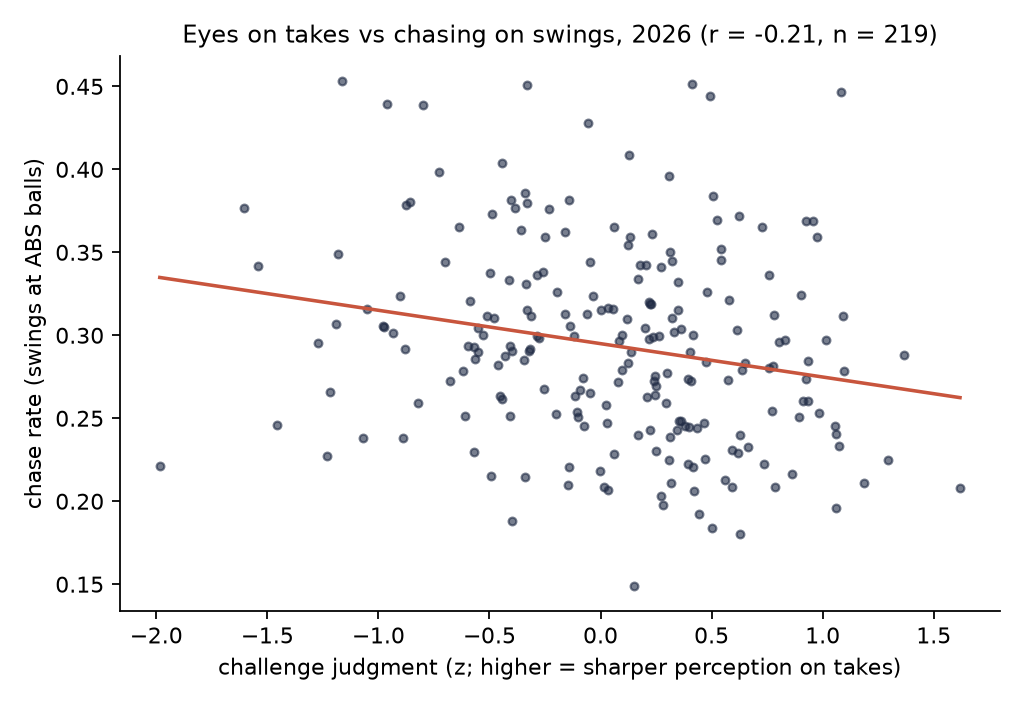
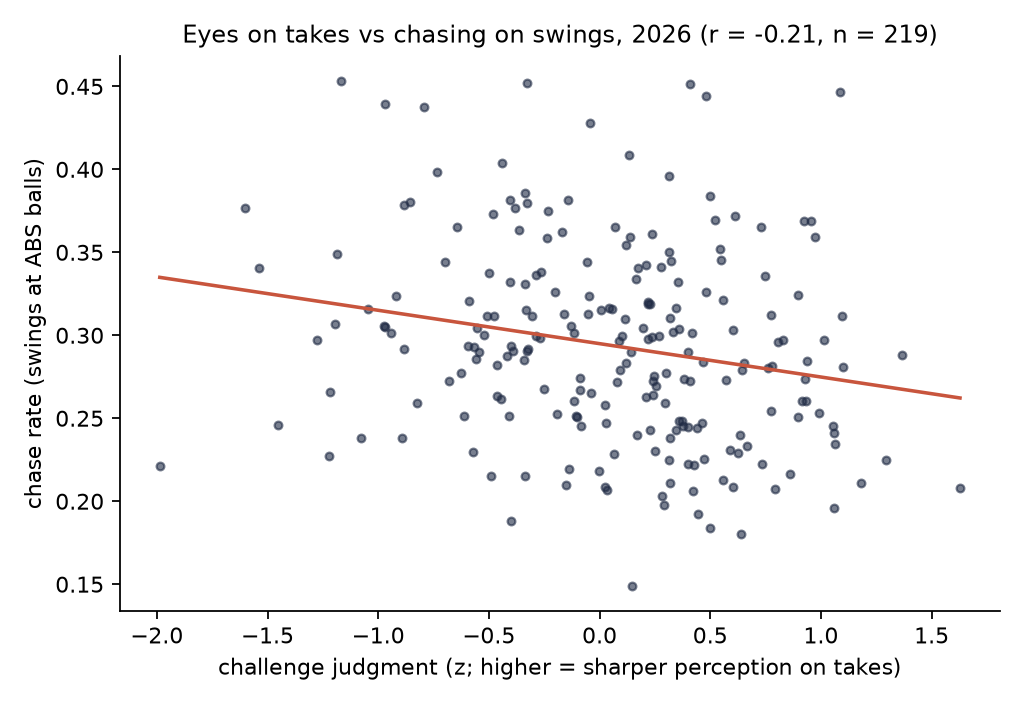
README results from the full 2026 season; final figures

diff --git a/README.md b/README.md
@@ -54,9 +54,81 @@ Raw data lives in `data/raw/` (gitignored, about 2 GB), processed tables in `dat
 
 Every umpire-called strike a hitter takes while the batting team holds a token is a decision: challenge or not. The true location is known from the trajectory. Across a season a hitter faces 60 to 400 of these, mostly within a few inches of the edge. A logit of challenge on true edge distance, with per-hitter random intercept and slope, separates how sharply the hitter's challenge probability rises as the pitch moves from inside the zone to outside it (eyes) from how far off the plate a pitch must be before they spend a token (approach). Count, token state and leverage shift the criterion and enter as fixed effects.
 
-## Results
+## Results, 2026 regular season
 
-See the Results section below once the full-season fits are recorded here, and `data/processed/` for the tables.
+All tables are in `data/processed/`; figures in `docs/figures/`. Sample: 2,429 games, 714,483 pitches, 10,557 challenges, Statcast joined on every pitch.
+
+### The psychometric curve
+
+![challenge judgment curve](docs/figures/psychometric_curve.png)
+
+Hitters faced 65,589 called strikes with a token in hand within four inches of the zone edge and challenged 7.0% of them. The umpire was wrong on 18% of those pitches. The league curve rises smoothly from under 1% at four inches inside the zone to about 40% at three and a half inches outside. It is a curve, not a step: at the edge itself hitters challenge only 11 to 14% of true balls. Two strikes shift the criterion by 1.9 logits (strike three is worth challenging), three balls by 0.5, a second token in hand by 0.2, the seventh inning onward by 0.7.
+
+| Quantity | Value |
+|---|---|
+| League slope | 0.65 per inch |
+| Between-hitter SD of slope (eyes) | 0.18 |
+| Between-hitter SD of intercept (criterion) | 0.66 |
+| Hitters scored (60+ decisions) | 388 |
+| Split-half reliability, full season: slope | 0.27 |
+| Split-half reliability, full season: criterion | 0.78 |
+| Split-half reliability, full season: d-prime | 0.11 |
+
+The headline measurement result is the last three rows. A hitter's willingness to challenge is a stable trait within one season. Their accuracy is barely measurable per hitter: a typical hitter makes 10 to 25 challenges, and the slope's posterior SD (about 0.13) is most of the between-hitter spread (0.18). The slope correlates 0.76 with the simpler signal-detection d-prime and 0.10 with the criterion, so the two dimensions are separated as intended, but any per-hitter ranking on eyes should be read with that reliability in mind. Judgment is unidentified for hitters who rarely challenge; rankings and the test use a minimum of eight challenges.
+
+### Token value and the dynamic policy
+
+![token value](docs/figures/token_value.png)
+
+Opportunities (taken pitches within three inches of the edge, both sides) arrive 1.32 times per team-half-inning and the umpire misses 20% of them. The league judgment slope implies perceptual noise of about 2.6 inches. Pricing a token by backward induction gives:
+
+| State | First token | Second token |
+|---|---|---|
+| Start of game | 0.49 runs | 0.23 runs |
+| Start of 5th | 0.33 | 0.15 |
+| Start of 9th | 0.10 | 0.03 |
+
+Savant's flat 0.20 is right for the first token around the sixth inning and for the second around the second. Early in the game the static rule challenges too readily; late it hoards.
+
+Playing every game forward with each rule, deciding on a perceived edge with league-average noise and scoring on the true ABS outcome:
+
+| Rule | Challenges per team-game | Overturned | Runs per team per 162 |
+|---|---|---|---|
+| Static (Savant breakeven) | 3.10 | 39.5% | 32.6 |
+| Dynamic (this repo) | 3.29 | 40.0% | 35.2 |
+| Observed behavior | 2.04 | 54.1% | 32.9 |
+| Oracle (perfect eyes) | 4.81 | 100% | 111.1 |
+
+The dynamic rule is worth about 2.5 runs per team-season over either the static rule or what teams actually did, with the same eyes. That is the low-single-digit figure the research brief anticipated, and it confirms that most of Savant's "runs not taken" is rational token conservation rather than error. The gap between any rule and the oracle (about 75 runs) is the value of perception, which is where the per-player layer lives: the policy table in `policy_hitter_thresholds_mlb_2026.csv` states, for each hitter, how far off the plate a pitch must look before spending the last token (about 1.9 inches in the first inning for the sharpest hitters, 4.5 to 5.7 for the shallowest, near zero for everyone in the ninth).
+
+### The eyes-versus-approach test
+
+![judgment vs chase](docs/figures/judgment_vs_chase.png)
+
+Sample: 219 hitters with 60+ decisions, 8+ challenges and 150+ PA.
+
+**Judgment predicts chasing.** Sharper challenge judgment correlates −0.21 with chase rate (p = 0.002; −0.41 after correcting for the score's reliability). It also correlates +0.24 with walk rate and −0.18 with in-zone swing rate, and 0.00 with strikeout rate. The criterion correlates +0.18 with chase rate (hitters who spend tokens freely also swing freely) and not with walks. So the perception signal on takes is related to swing decisions in the expected direction, and the aggressiveness signal is a different thing.
+
+**Holding chase rate fixed, judgment predicts nothing else yet.** With chase-rate quintile, criterion, bat speed and bat side controlled, a one-SD increase in judgment moves:
+
+| Outcome | Effect per SD of judgment | Robust SE | p | Effect in outcome SDs, disattenuated |
+|---|---|---|---|---|
+| Runs per 100 chase swings | −0.24 | 0.18 | 0.18 | −0.48 |
+| Whiff rate on chases | +0.002 | 0.010 | 0.87 | +0.06 |
+| xwOBA on chase contact | −0.004 | 0.005 | 0.49 | −0.27 |
+| Two-strike contact rate | +0.002 | 0.006 | 0.74 | +0.10 |
+| Strikeout rate | −0.002 | 0.006 | 0.70 | −0.13 |
+| Two-strike chase rate | +0.006 | 0.005 | 0.27 | +0.27 |
+
+None is distinguishable from zero, and the within-quintile contrasts change sign across quintiles. The one with a nonzero point estimate, run value per chase, points the wrong way for the hypothesis (sharper eyes, costlier chases), and its disattenuated size is still within noise. The year-over-year chase-improvement outcome is reported below once the 2025 Statcast pull completes.
+
+**Reading.** Among hitters who chase the same amount, the ones with sharper challenge judgment do not chase more cheaply, make more two-strike contact, or strike out less. The eyes-versus-approach split as measured here predicts *whether* a hitter chases, not *what happens* when they do. Two interpretations fit, and the data cannot yet separate them: perception on takes near the edge is a different skill from perception on the pitches hitters actually chase, which are further off the plate; or the per-hitter score is too unreliable in one season (0.27) to detect effects of the size that would matter, and the 2027 season doubles the sample. The null is a conservative null, not proof of absence.
+
+### Validation
+
+- Per-player challenge attribution matches Savant's leaderboard: batters 99.4% exact (the only gap is two players named Max Muncy merged by name), catchers 100% within one, pitchers 100% exact.
+- Geometry agrees with the ABS ruling on 99.99% of challenged pitches, with zero disagreements within a quarter inch.
+- End-of-game token state matches the official ledger in 99.84% of games under the ledger's accounting; the per-inning extras top-up explains all 74 zero-token challenges.
 
 ## Limits
 
